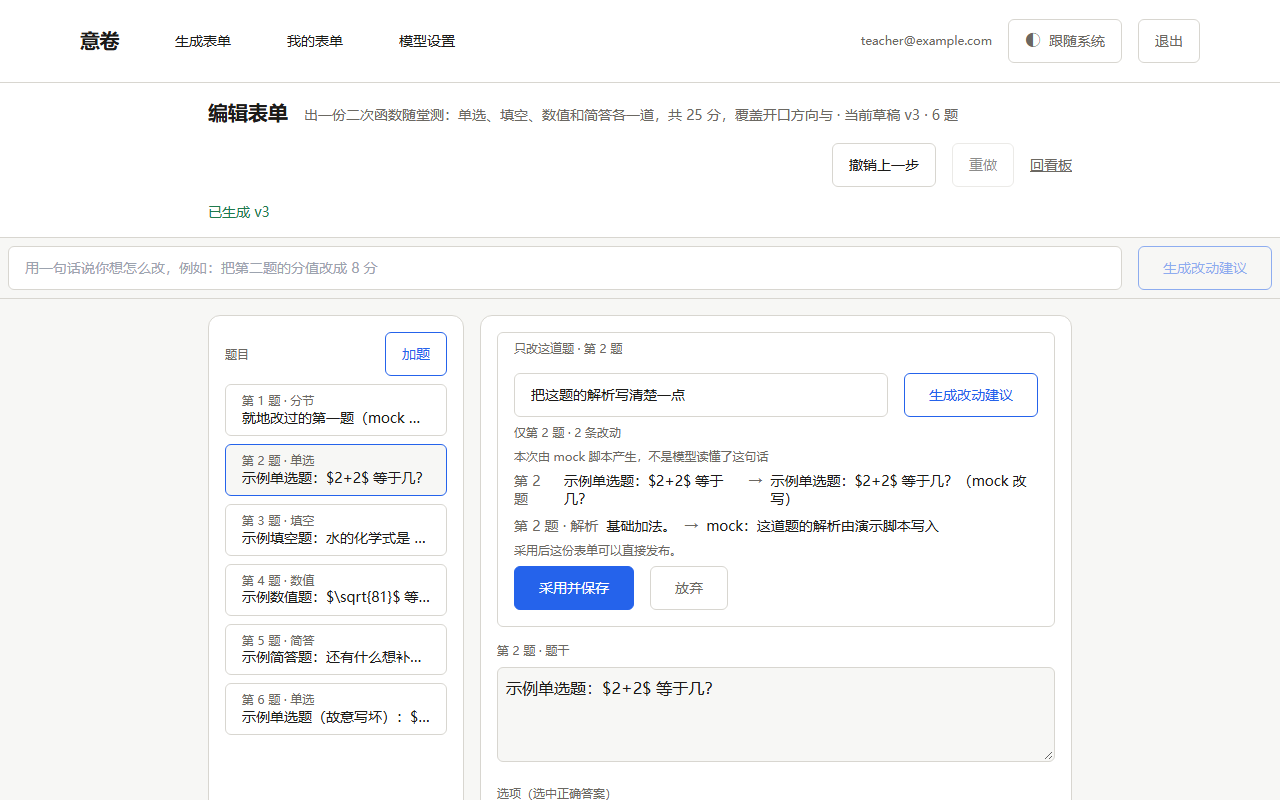
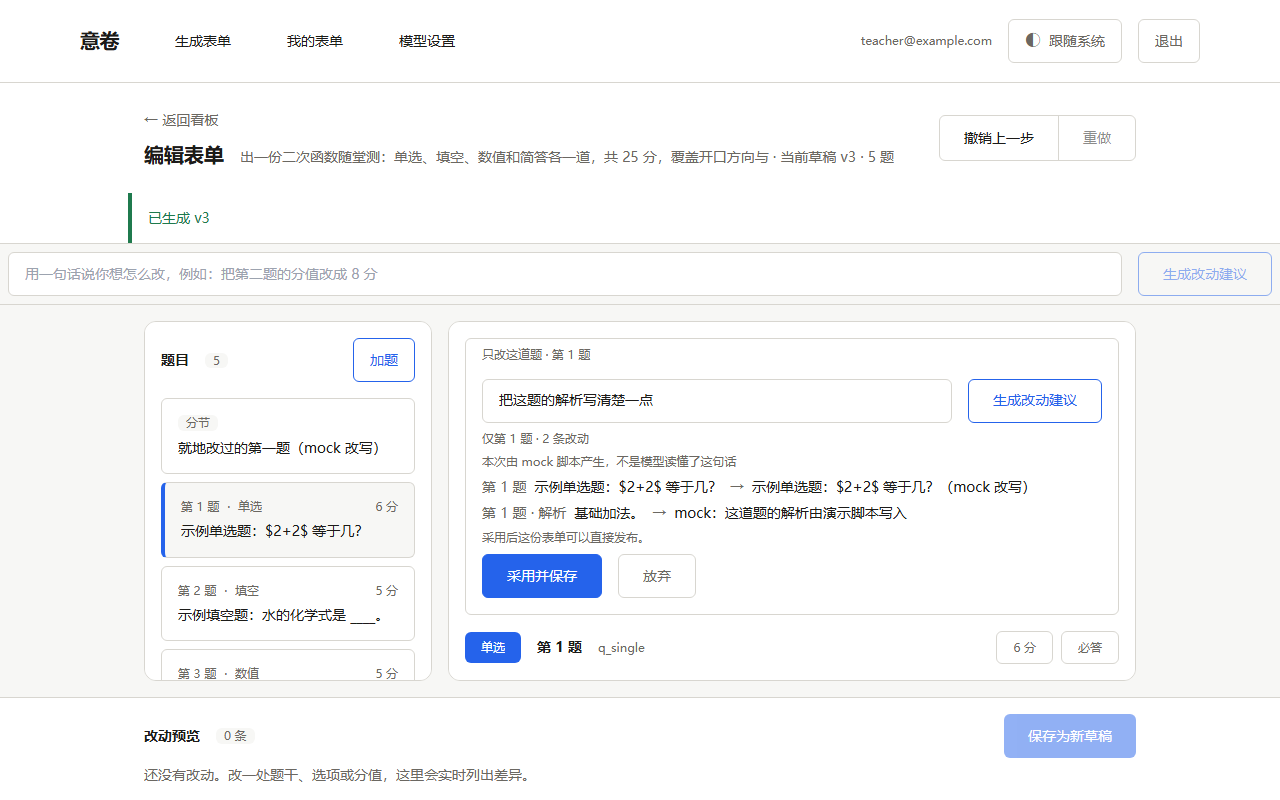
test(evidence): 重跑十九步闭环截图（编辑器重排） [P25]
编辑器重排后生产构建重跑：19 步全绿、31 个产物。第 8 步的建议采用、第 15 步的单题编辑与第 16 步补题都通过；diff 题号断言改为「第 1 题」。README 记录本轮时间与题号口径。

diff --git a/docs/evidence/README.md b/docs/evidence/README.md
@@ -39,11 +39,11 @@ node scripts/browser-closed-loop.mjs   # 期望：每步截图进本目录 + std
 
 | 项 | 值 |
 |---|---|
-| commit | `git log -1 -- docs/evidence/01-login.png` 指向的提交（十九步三十一产物同一次生产构建运行；README 本身的改动不算） |
-| 时间 | 2026-11-04 21:20（Asia/Shanghai） |
+| commit | `git log -1 -- docs/evidence/23-item-editor.png` 指向的提交（本次运行改动的编辑器截图；`01-login.png` 与上次字节一致，不随每次运行产生新提交） |
+| 时间 | 2026-11-05 11:34（Asia/Shanghai） |
 | 浏览器 | Chrome 156.0.8078.80（headless=new，CDP 驱动） |
 | 服务 | `LLM_MODE=mock`；`NODE_ENV=production` 的同源 Node 服务托管 `web/dist`，端口临时分配 |
-| 结果 | 19 步全绿：**未登录打开 `/dashboard` 先显示登录表单且地址不改写，登录后回到看板** → 生成（需求 → **蓝图卡可就地改标题、四档难度和题型和一致 → 按蓝图生成**，时间线出现 plan 与蓝图对照；**预览卡「编辑这题」就地改第一题题干，收起后立即显示新文案**）→ 发布（发布内容沿用改过的预览）→ 学生页作答 → 提交 `20 / 25` → 看板新增 1 行、每题正确率全 `100%` 且覆盖矩阵渲染 → 教师批改后 `24 / 25`（**批改面板就在被点那行的下一行，不是页面底部**）→ 编辑器一句话改、撤销再重做 → 含糊需求触发 3 条追问，跳过追问后仍走蓝图确认 → **生成页选「问卷」→ 发布 → 手机填写 → 回收看板（无均分/满分/`0/0`）→ CSV** → **打印版考卷（含答案开关、打印媒体隐藏外壳，`Page.printToPDF` 出 PDF）** → **答案解析开关（教师开启后学生重交，成功页出现正确答案与解析）** → **暗色模式（系统深色自动生效、三态循环、浅/深底色实测）** → **关掉「先看蓝图」开关后直接生成（无蓝图卡、时间线不出现 plan）** → **单题编辑（选中第 2 题改正确项、diff 只列本题、保存后其余题逐字节不变；单题建议标题为「仅第 2 题」、采用后仍停在本题）** → **覆盖矩阵补题（点单元格进编辑页、模型回一道候选题、加入草稿并保存；再点另一格走手动模板）** → **AI 辅助评分（逐表单开启后，批改面板出现按钮，点一下只回建议分与理由，不自动保存）** → **模型设置（网页切模式、填端点/模型/Key，保存后 API 与页面都不回显 Key；留空再保存仍保留原 Key）** → **参考试卷（粘贴文本 → 蓝图卡出现参考回执，难度输入改了题型和同步变化；mock 下搜索回执为未启用，`plan` 响应带 `styleNotes` 且不回显原文）**；首页响应头含 `script-src 'self'` 与 `style-src-attr 'unsafe-inline'` |
+| 结果 | 19 步全绿：**未登录打开 `/dashboard` 先显示登录表单且地址不改写，登录后回到看板** → 生成（需求 → **蓝图卡可就地改标题、四档难度和题型和一致 → 按蓝图生成**，时间线出现 plan 与蓝图对照；**预览卡「编辑这题」就地改第一题题干，收起后立即显示新文案**）→ 发布（发布内容沿用改过的预览）→ 学生页作答 → 提交 `20 / 25` → 看板新增 1 行、每题正确率全 `100%` 且覆盖矩阵渲染 → 教师批改后 `24 / 25`（**批改面板就在被点那行的下一行，不是页面底部**）→ 编辑器一句话改、撤销再重做 → 含糊需求触发 3 条追问，跳过追问后仍走蓝图确认 → **生成页选「问卷」→ 发布 → 手机填写 → 回收看板（无均分/满分/`0/0`）→ CSV** → **打印版考卷（含答案开关、打印媒体隐藏外壳，`Page.printToPDF` 出 PDF）** → **答案解析开关（教师开启后学生重交，成功页出现正确答案与解析）** → **暗色模式（系统深色自动生效、三态循环、浅/深底色实测）** → **关掉「先看蓝图」开关后直接生成（无蓝图卡、时间线不出现 plan）** → **单题编辑（选中第一道题改正确项、diff 只列本题、保存后其余题逐字节不变；单题建议标题为「仅第 1 题」、采用后仍停在本题）** → **覆盖矩阵补题（点单元格进编辑页、模型回一道候选题、加入草稿并保存；再点另一格走手动模板）** → **AI 辅助评分（逐表单开启后，批改面板出现按钮，点一下只回建议分与理由，不自动保存）** → **模型设置（网页切模式、填端点/模型/Key，保存后 API 与页面都不回显 Key；留空再保存仍保留原 Key）** → **参考试卷（粘贴文本 → 蓝图卡出现参考回执，难度输入改了题型和同步变化；mock 下搜索回执为未启用，`plan` 响应带 `styleNotes` 且不回显原文）**；首页响应头含 `script-src 'self'` 与 `style-src-attr 'unsafe-inline'` |
 | 截图与产物 | `01-login.png` … `31-plan-reference.png` 共 30 张截图 + `16-print-sheet.pdf`，全部同一次生产构建运行 |
 
 第 1 步是「登录优先」的界面级证据：匿名打开 `/dashboard` 时页面显示登录表单，但地址保持
@@ -139,6 +139,13 @@ R-08 的 CSP 响应头断言已进入闭环脚本；受限 Windows 环境下 Chr
 「已重做，当前草稿 v2」）。**注意口径**：`LLM_MODE=mock` 下的建议来自 `mockPatchOps()`
 内置脚本（改第一题题干 + 第 2 题加分），所以这一步证明的是「建议被采用并落成 v2」，
 **不是**「模型读懂了那句话」。后者要 `LLM_MODE=live` 才有，见 `docs/evidence/video-script.md` §3。
+
+**2026-11-05 11:34 那轮的改动（P25 编辑器重排）**：题目列表与编辑面板按「题干 / 选项与
+正确答案 / 解析 / 评分与标注」分组，正确的选项行高亮；题干和解析下方各有一块 KaTeX
+实时预览，改公式不必先保存再打开学生页。题号只数题目、不数分节——以前
+「分节 + 第一道题」会把第一道题显示成「第 2 题」，现在列表、编辑面板、diff 与「只改
+这一题」建议条统一用「第 1 题」。编辑路由锁一屏高度，底部改动条常驻，保存按钮改主色。
+闭环脚本的 diff 断言随之改为按题目序号计算，不再假定 Schema 下标就是题号。
 
 **2026-10-27 23:38 那轮的改动**：
 1. mock 脚本的简答从「无分值」改成 5 分（R-01）：没有这道带分值的简答，
